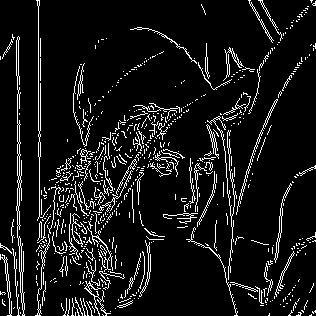
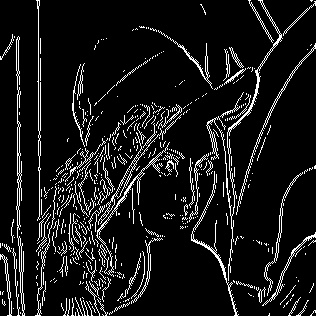
canny edge

diff --git a/canny_edge/canny_edge.cpp b/canny_edge/canny_edge.cpp
@@ -6,40 +6,16 @@
 #include <opencv2/core/core.hpp>
 #include <opencv2/highgui/highgui.hpp>
 #include <opencv2/imgproc/imgproc.hpp>
-#define PI 3.1415926
 
 enum dir{vertical=0, right=1, horizontal=2, left=3, zero=4};
 
-void scaleToUChar(const cv::Mat& src, cv::Mat& dst, float max_rato) {
-    src.convertTo(dst, CV_32F);
-    double maxValue;
-    minMaxLoc(dst, 0, &maxValue);
-    
-    int bins = 100;
-    int histSize = bins;
-    float range[] = { 0, float(maxValue) };
-    const float* ranges[] = { range };
-    cv::Mat hist;
-    calcHist(&dst, 1, 0, cv::Mat(), hist, 1, &histSize, ranges, true, false);
-
-    int threshold = int(sum(hist.rowRange(5, bins-1))[0] * max_rato);
-    int sum = 0;
-    int i = bins-1;
-    while (i >= 0) {
-        sum += hist.at<float>(i);
-        if (sum > threshold) break;
-        i--;
-    }
-    float scaleRatio = (255 * bins) / ( i * maxValue);
-    convertScaleAbs(dst, dst, scaleRatio);
-}
-
 cv::Mat canny(cv::Mat &img, int thres_l, int thres_h) {
 
-	cv::Mat sobelx, sobely, sobelx_abs, sobely_abs, intensity;
+	cv::Mat sobelx, sobely, intensity;
 
 	// Gaussian Blur
 	cv::GaussianBlur(img, img, cv::Size(5,5),0);
+	img.convertTo(img, CV_32F);
 
 	// Sobel Operation (Getting sobel intensity and angle)
  	cv::Sobel(img, sobelx, -1, 1, 0, 3);
@@ -48,63 +24,62 @@ cv::Mat canny(cv::Mat &img, int thres_l, int thres_h) {
 	cv::pow(sobely, 2, sobely);
 	cv::add(sobelx, sobely, intensity);
 	cv::pow(intensity, 0.5, intensity);
-	// scaleToUChar(intensity, intensity, 0.2);
-	intensity.convertTo(intensity, CV_8UC1);
-	// cv::convertScaleAbs(sobelx, sobelx_abs);
-	// cv::convertScaleAbs(sobely, sobely_abs);
-	// cv::addWeighted(sobelx_abs, 0.5, sobely_abs, 0.5, 0, intensity);
+	intensity.convertTo(intensity, CV_8U);
 
 	// Sobel Orientation Gy/Gx
-	double tan225 = 0.414, tan675 = 2.414;
+	double tan225 = 0.4142135, tan675 = 2.4142135;
 	cv::Mat orientation(img.size(), CV_32F);
-	for(int j=0; j<sobelx.rows; j++){
-		for(int i=0; i<sobelx.cols; i++){
+	for(int i=0; i<sobelx.rows; i++){
+		for(int j=0; j<sobelx.cols; j++){
 			double x = sobelx.at<double>(i,j) + 1e-5;
 			double angle = sobely.at<double>(i,j) / x;
 			if ((angle < tan675 && angle >= tan225)){
-				orientation.at<int>(i,j) = dir::right;
+				orientation.at<int>(i,j) = (int) dir::right;
 			}
 			else if ((angle < tan225 && angle >= -tan225)){
-				orientation.at<int>(i,j) = dir::horizontal;
+				orientation.at<int>(i,j) = (int) dir::horizontal;
 			}
 			else if ((angle < -tan225 && angle >= -tan675)){
-				orientation.at<int>(i,j) = dir::left;
+				orientation.at<int>(i,j) = (int) dir::left;
 			}
 			else {
-				orientation.at<int>(i,j) = dir::vertical;
+				orientation.at<int>(i,j) = (int) dir::vertical;
 			}
+			std::cout << orientation.at<int>(i,j) << " ";
 		}
 	}
+	orientation.convertTo(orientation, CV_8U);
 
 	// NMS
-	for (int y=1; y<orientation.rows-1; y++){
-		for(int x=1; x<orientation.cols-1; x++){
+	for (int x=1; x<orientation.rows-1; x++){
+		for(int y=1; y<orientation.cols-1; y++){
 			uchar v1, v2;
-			int dir = orientation.at<int>(x,y);
+			int direction = orientation.at<int>(x,y);
 			uchar pixel = intensity.at<uchar>(x,y);
-			switch (dir) {
+			switch (direction) {
 				case dir::vertical:
-					v1 = intensity.at<uchar>(x+1,y);
-					v2 = intensity.at<uchar>(x-1,y);
-					break;
-				case dir::horizontal:
 					v1 = intensity.at<uchar>(x,y+1);
 					v2 = intensity.at<uchar>(x,y-1);
 					break;
-				case dir::right:
-					v1 = intensity.at<uchar>(x+1,y-1);
-					v2 = intensity.at<uchar>(x-1,y+1);
+				case dir::horizontal:
+					std::cout << direction << " ";
+					v1 = intensity.at<uchar>(x+1,y);
+					v2 = intensity.at<uchar>(x-1,y);
 					break;
-				case dir::left:
+				case dir::right:
 					v1 = intensity.at<uchar>(x+1,y+1);
 					v2 = intensity.at<uchar>(x-1,y-1);
+					break;
+				case dir::left:
+					v1 = intensity.at<uchar>(x+1,y-1);
+					v2 = intensity.at<uchar>(x-1,y+1);
 					break;
 				default:
 					v1 = 255;
 					v2 = 255;
 					break;
 			}
-			if (pixel <= v1 || pixel <= v2) {
+			if (pixel < v1 || pixel < v2) {
 				intensity.at<uchar>(x,y) = 0;
 			}
 		}
@@ -114,38 +89,30 @@ cv::Mat canny(cv::Mat &img, int thres_l, int thres_h) {
 	cv::Mat high, low;
 	cv::threshold(intensity, high, thres_h, 255, cv::THRESH_BINARY);
     cv::threshold(intensity, low, thres_l, 255, cv::THRESH_BINARY);
-	for (int y=1; y<low.rows-1; y++){
-		for(int x=1; x<low.cols-1; x++){
+
+	for (int x=1; x<low.rows-1; x++){
+		for(int y=1; y<low.cols-1; y++){
 			uchar pixel = low.at<uchar>(x,y);
 			uchar pixel_h = high.at<uchar>(x,y);
 			if (pixel > 0 && pixel_h == 0){
-				std::vector<uchar> h = {high.at<uchar>(x-1,y-1), high.at<uchar>(x,y-1), high.at<uchar>(x+1,y-1),
-										high.at<uchar>(x-1,y), high.at<uchar>(x,y), high.at<uchar>(x+1,y),
-										high.at<uchar>(x-1,y+1), high.at<uchar>(x,y+1), high.at<uchar>(x+1,y+1)};
-				// for (int k=0; k<h.size(); k++){
-				// 	if (h[k] > 0){
-				// 		high.at<uchar>(x,y) = 255;
-				// 		break;
-				// 	}
-				// }
 				uchar v1, v2;
-				int dir = orientation.at<int>(x,y);
-				switch (dir) {
+				int direction = orientation.at<int>(x,y);
+				switch (direction) {
 					case dir::vertical:
-						v1 = high.at<uchar>(x+1,y);
-						v2 = high.at<uchar>(x-1,y);
-						break;
-					case dir::horizontal:
 						v1 = high.at<uchar>(x,y+1);
 						v2 = high.at<uchar>(x,y-1);
 						break;
-					case dir::right:
-						v1 = high.at<uchar>(x+1,y-1);
-						v2 = high.at<uchar>(x-1,y+1);
+					case dir::horizontal:
+						v1 = high.at<uchar>(x+1,y);
+						v2 = high.at<uchar>(x-1,y);
 						break;
-					case dir::left:
+					case dir::right:
 						v1 = high.at<uchar>(x+1,y+1);
 						v2 = high.at<uchar>(x-1,y-1);
+						break;
+					case dir::left:
+						v1 = high.at<uchar>(x+1,y-1);
+						v2 = high.at<uchar>(x-1,y+1);
 						break;
 					default:
 						v1 = 0;
@@ -165,17 +132,11 @@ int main(){
 	cv::Mat img, grayImage, canny_edge;
 	img = cv::imread("../Lenna.jpg", cv::IMREAD_COLOR);
 	cv::cvtColor(img, grayImage, cv::COLOR_BGR2GRAY);
-	grayImage.convertTo(grayImage, CV_64F);
 
 	canny_edge = canny(grayImage, 30, 60);
 	cv::imwrite("canny_edge.jpg", canny_edge);
 
-	img = cv::imread("../Lenna.jpg", cv::IMREAD_COLOR);
-	cv::cvtColor(img, grayImage, cv::COLOR_BGR2GRAY);
-	cv::GaussianBlur(grayImage, grayImage, cv::Size(5,5),0);
-	cv::Mat canny_cv;
-	cv::Canny(grayImage, canny_cv, 30, 60);
-	cv::imwrite("canny_edge_cv.jpg", canny_cv);
+
 
 	return 0;
 }
